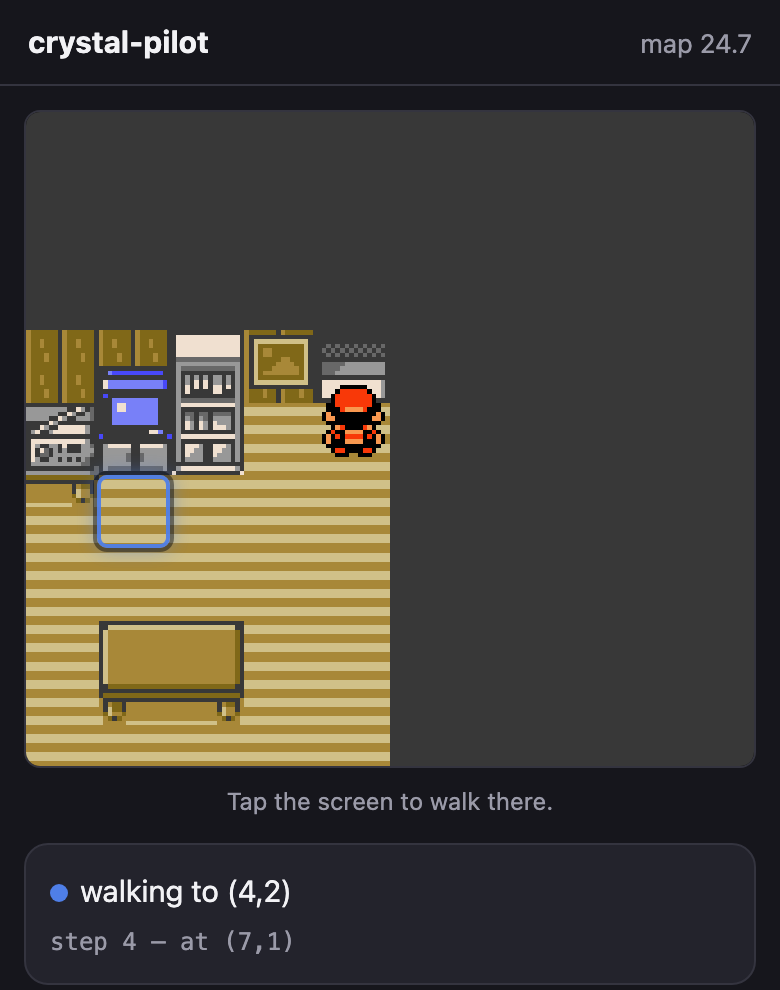
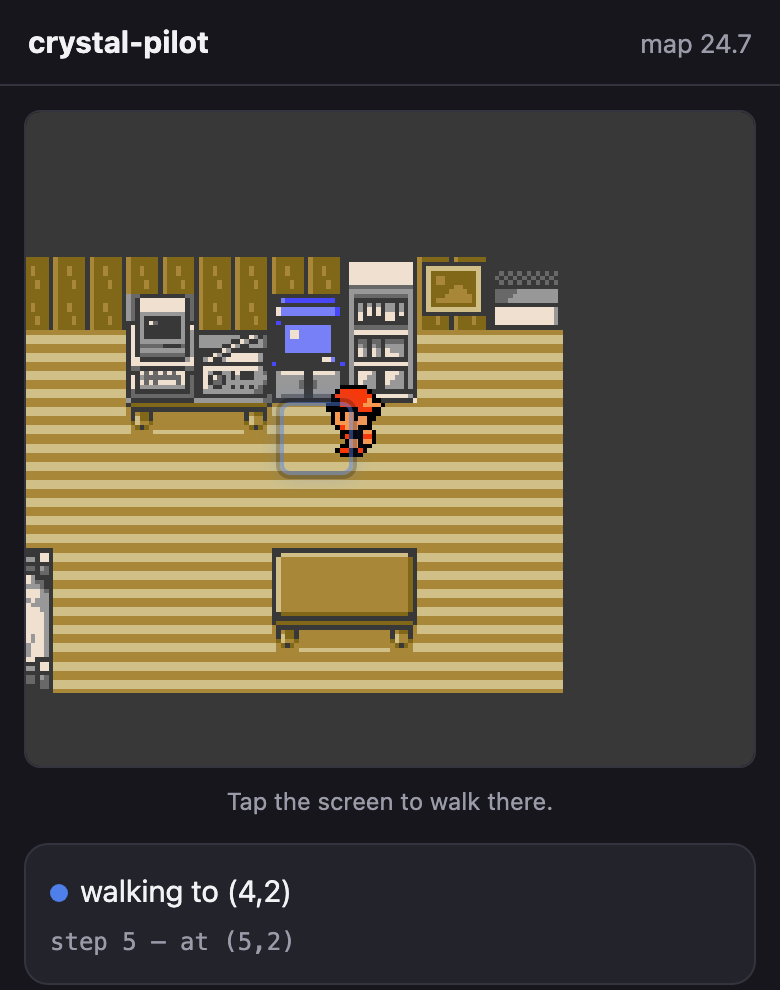
The destination marker drifted across the map; place it from the camera
You were right that it moves with the screen. Two separate ways, both measured.

The coordinate is the wrong thing to position it from. Sampling a step frame by
frame: the camera (wPlayerBGMapOffsetX) starts sliding at frame 11 and has moved
the full 16 pixels by frame 22, while wXCoord does not change until frame 23. So
for twelve of every thirteen frames the coordinate says the player has not moved
and the world visibly has -- the marker holds still, the map slides out from
under it, and it snaps back at the commit. Measured on a three-tile goal: the
old placement sat on tile 7 for frames 0-22 and then jumped to 6, where the new
one walks 7, 6.75, 6.625 ... 6.125, 6 in step with the camera.

And once a walk ended the marker was not updated at all while it lingered, so
moving by hand in that window left it marking a different tile entirely --
player two tiles away, marker unmoved at 40%/44.4%.

Both come from the same fix: the marker now follows wPlayerBGMapOffsetX/Y, which
is the camera and moves smoothly, on an animation frame for as long as it is on
screen. The resting offset is 48 - 16 * coordinate, and the difference between
the resting value for the current coordinate and the live one is how far the
camera is into the step -- taken modulo 256, so it survives the offset wrapping
over a long walk, and calibrated from a standing player rather than assuming
the constant holds on every map.

The README screenshot was taken with the old placement, so it has been retaken.
[…]

Changed region(s): [[0.0308, 0.2424, 0.7385, 0.7879], [0.3077, 0.9394, 0.3692, 0.9697], [0.1538, 0.9394, 0.1846, 0.9697]]

diff --git a/app/main.js b/app/main.js
@@ -35,6 +35,11 @@ async function maybeStart() {
   tasks = new Tasks(gb, state, progress);
   collision = new CollisionMap(symbols, gb);
   nav = new Nav(gb, symbols);
+  A_MARK = {
+    x: symbols.addr('wXCoord'), y: symbols.addr('wYCoord'),
+    offX: symbols.addr('wPlayerBGMapOffsetX'),
+    offY: symbols.addr('wPlayerBGMapOffsetY'),
+  };
 
   // Hand the game over immediately: buttons visible, emulator running.
   $('#loader').classList.add('hide');
@@ -157,7 +162,8 @@ $('#symFile').addEventListener('change', async (e) => {
                      // tap-to-walk: the collision map and the window stack
                      'wOverworldMapBlocks', 'wMapWidth', 'wMapHeight',
                      'wTilesetCollisionBank', 'wTilesetCollisionAddress',
-                     'wWindowStackSize', 'CollisionPermissionTable']);
+                     'wWindowStackSize', 'CollisionPermissionTable',
+                     'wPlayerBGMapOffsetX', 'wPlayerBGMapOffsetY']);
     setStatus(`symbols: ${symbols.size.toLocaleString()} loaded`, 'ok');
   } catch (err) {
     symbols = null;
@@ -241,6 +247,7 @@ addEventListener('blur', () => { gb.releaseAll(); syncHeld(); });
 // the collision map can path to.
 const SCREEN_TILES_X = 10, SCREEN_TILES_Y = 9;
 const PLAYER_TILE_X = 4, PLAYER_TILE_Y = 4;
+let A_MARK = null;          // addresses the marker tracker reads every frame
 
 /**
  * Is a menu or textbox on screen?
@@ -266,19 +273,76 @@ async function windowOpen() {
  * finishes underneath them.
  */
 let markTimer = null;
+let markState = null;        // { goal, kx, ky } while a marker is on screen
+let markRaf = null;
 
-function markGoal(goal, pos) {
+/**
+ * Mark a destination on the map, and keep it there.
+ *
+ * The hard part is that the marker has to sit on a *map* tile while the screen
+ * scrolls, and the player's coordinate is the wrong thing to derive that from.
+ * Measured frame by frame: the camera starts sliding at frame 11 of a step and
+ * has moved the full 16 pixels by frame 22, but wXCoord does not change until
+ * frame 23 -- so for almost the whole of every step the coordinate says the
+ * player has not moved while the world visibly has. A marker placed from the
+ * coordinate therefore stands still while the map slides out from under it,
+ * which is exactly what it looks like: the marked spot drifting away.
+ *
+ * wPlayerBGMapOffsetX/Y is the camera itself, and it moves smoothly. At rest it
+ * is `48 - 16 * coordinate`, so the difference between the resting value for
+ * the current coordinate and the live one is how far into the step the camera
+ * has scrolled. That difference is small and taken modulo 256, so it stays
+ * correct however far the offset has wrapped over a long walk.
+ */
+function markGoal(goal) {
   const mark = $('#tapmark');
-  if (!goal) { mark.classList.add('hide'); return; }
-  const tx = goal[0] - pos[0] + PLAYER_TILE_X;
-  const ty = goal[1] - pos[1] + PLAYER_TILE_Y;
-  if (tx < 0 || ty < 0 || tx >= SCREEN_TILES_X || ty >= SCREEN_TILES_Y) {
-    mark.classList.add('hide');       // walked off the edge of the view
+  if (!goal) {
+    markState = null;
+    if (markRaf !== null) { cancelAnimationFrame(markRaf); markRaf = null; }
+    mark.classList.add('hide');
     return;
   }
-  mark.style.left = (tx * 100 / SCREEN_TILES_X) + '%';
-  mark.style.top = (ty * 100 / SCREEN_TILES_Y) + '%';
-  mark.classList.remove('hide');
+  markState = { goal, k: null };
+  if (markRaf === null) markRaf = requestAnimationFrame(trackGoal);
+}
+
+/** Signed distance from a resting camera offset to the live one, in tiles. */
+function cameraFraction(rest, live) {
+  let d = (rest - live) & 0xff;
+  if (d > 127) d -= 256;
+  return d / 16;
+}
+
+async function trackGoal() {
+  markRaf = null;
+  if (!markState || !gb.ready) return;
+  const mark = $('#tapmark');
+  try {
+    const lo = Math.min(A_MARK.y, A_MARK.offX);
+    const hi = Math.max(A_MARK.x, A_MARK.offY);
+    const w = await gb.readBytes(lo, hi - lo + 1);
+    const at = (a) => w[a - lo];
+    const x = at(A_MARK.x), y = at(A_MARK.y);
+    const offX = at(A_MARK.offX), offY = at(A_MARK.offY);
+    // The resting offset is captured once, from a player who is standing still,
+    // rather than assuming the constant is the same on every map.
+    if (markState.k === null) {
+      markState.k = { x: (offX + 16 * x) & 0xff, y: (offY + 16 * y) & 0xff };
+    }
+    const k = markState.k;
+    const camX = x + cameraFraction((k.x - 16 * x) & 0xff, offX);
+    const camY = y + cameraFraction((k.y - 16 * y) & 0xff, offY);
+    const tx = markState.goal[0] - camX + PLAYER_TILE_X;
+    const ty = markState.goal[1] - camY + PLAYER_TILE_Y;
+    if (tx <= -1 || ty <= -1 || tx >= SCREEN_TILES_X || ty >= SCREEN_TILES_Y) {
+      mark.classList.add('hide');     // scrolled out of view
+    } else {
+      mark.style.left = (tx * 100 / SCREEN_TILES_X) + '%';
+      mark.style.top = (ty * 100 / SCREEN_TILES_Y) + '%';
+      mark.classList.remove('hide');
+    }
+  } catch (e) { /* a read can fail across a map load; try again next frame */ }
+  if (markState) markRaf = requestAnimationFrame(trackGoal);
 }
 
 async function walkToTap(tx, ty) {
@@ -324,12 +388,9 @@ async function walkToTap(tx, ty) {
       return;
     }
     setStatus(`walking to (${goal[0]},${goal[1]})`, 'busy');
-    markGoal(goal, s.pos);
+    markGoal(goal);
     const res = await nav.walkTo(collision, goal, {
-      onStep: (n, at) => {
-        progress(`step ${n} — at (${at[0]},${at[1]})`);
-        markGoal(goal, at);
-      },
+      onStep: (n, at) => progress(`step ${n} — at (${at[0]},${at[1]})`),
     });
     const now = res.pos;
     const where = `(${now[0]},${now[1]})`;

diff --git a/sw.js b/sw.js
@@ -1,7 +1,7 @@
 // Cache the shell so the app opens with no network once installed. The ROM and
 // .sym are never cached: they are yours, they stay in the page, and they are
 // re-picked each session.
-const CACHE = 'crystal-pilot-v8';
+const CACHE = 'crystal-pilot-v9';
 const SHELL = [
   './', './index.html', './manifest.webmanifest', './icon.svg',
   './vendor/wasmboy.umd.js',

diff --git a/README.md b/README.md
@@ -131,10 +131,18 @@ Tap anywhere on the screen and the pilot walks there.
 <img src="docs/tap-to-walk.png" alt="A tap being walked to, mid-route" width="330">
 
 That is a walk in progress: the ring is the tile that was tapped, the player is
-four steps into the route, and the status says where it is going and where it
-has got to. The ring tracks the *map*, not the screen — the camera keeps the
-player centred, so a marker left where the finger landed would drift off the
-destination as the world scrolled under it.
+five steps into the route, and the status says where it is going and where it
+has got to.
+
+The ring is placed from the *camera*, not from the player's coordinate, and the
+difference is visible in that shot — it is drawn between tile boundaries because
+the screen is mid-scroll. Measured frame by frame, the camera starts sliding at
+frame 11 of a step and has moved the full 16 pixels by frame 22, but `wXCoord`
+does not change until frame 23. A marker positioned from the coordinate
+therefore holds still for almost the whole of every step while the world slides
+out from under it, which looks exactly like the destination drifting away.
+`wPlayerBGMapOffsetX/Y` is the camera itself and moves smoothly, so the marker
+stays on its tile.
 
 The overworld is drawn in 16×16 tiles, so the 160×144 screen is 10×9 of them and
 the player is always the one at (4, 4) — the camera keeps them centred rather
